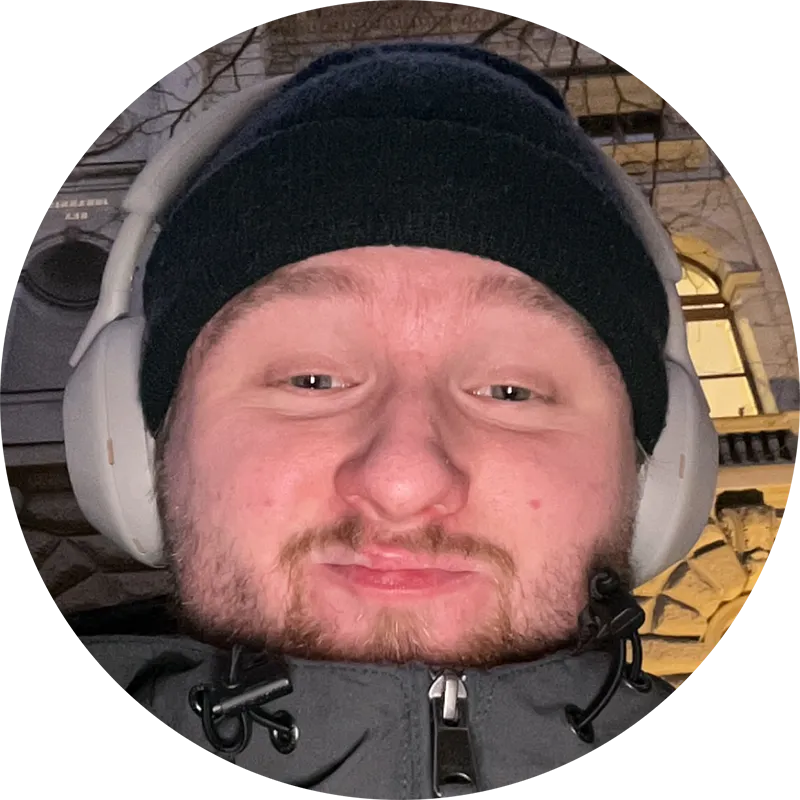
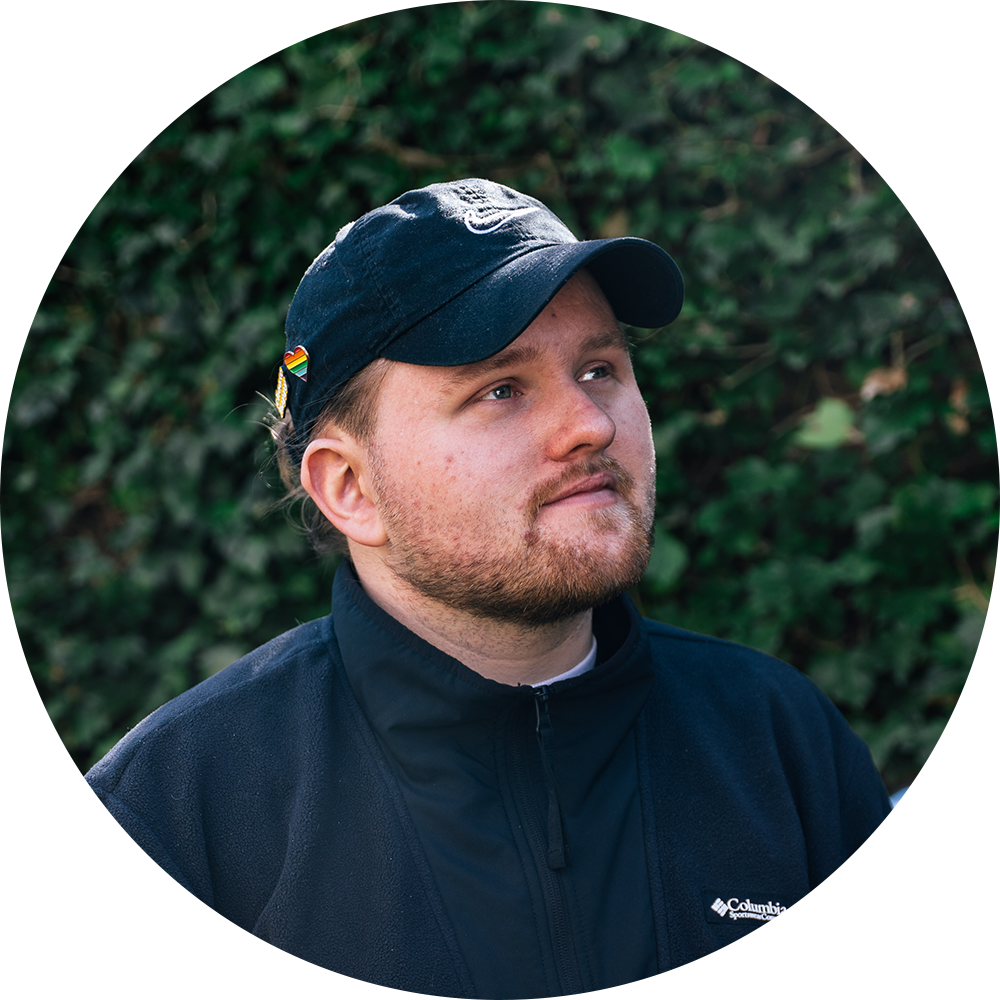
Updated about picture

diff --git a/content/about.md b/content/about.md
@@ -5,7 +5,7 @@ comments: false
 ---
 
 {{< figure
-src="/images/profile-picture-2.webp"
+src="/images/profile-picture.webp"
 alt="Ein Bild von Felix Kirchner"
 width="300"
 >}}
